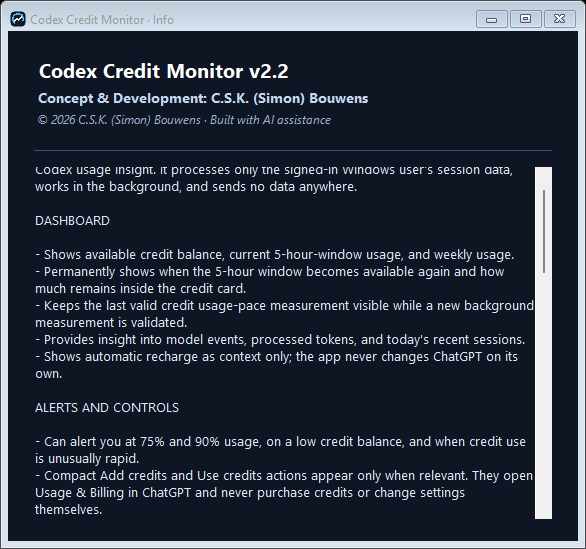
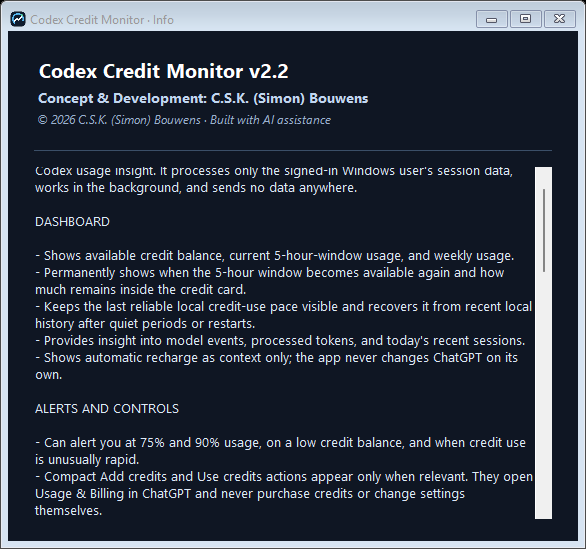
Finalize v2.2 release assets and packaging metadata

Changed region(s): [[0.0614, 0.2787, 0.9215, 0.9599], [0.4608, 0.7741, 0.4915, 0.8051]]

diff --git a/Doc/GitHub-README-v2.2.md b/Doc/GitHub-README-v2.2.md
@@ -43,7 +43,7 @@ Choose the package that matches how you use Windows:
 
 [Download CodexCreditMonitorSetup_2.2_x64.msi](https://github.com/sibosays/CodexCreditMonitor/releases/latest/download/CodexCreditMonitorSetup_2.2_x64.msi)
 
-Use the MSI for a conventional 64-bit Windows installation. It installs the self-contained desktop application in Program Files and adds a Codex Credit Monitor shortcut to the Start menu.
+Use the MSI for a conventional 64-bit Windows installation. Windows requests administrator approval, then installs the self-contained desktop application in Program Files and adds a Codex Credit Monitor shortcut to the Start menu.
 
 ### PortableApps package (ZIP)
 
@@ -72,8 +72,8 @@ The Info window dynamically reads the bundled Dutch and English product descript
 [Download SHA256SUMS.txt](https://github.com/sibosays/CodexCreditMonitor/releases/latest/download/SHA256SUMS.txt) and compare the SHA-256 value of your chosen package:
 
 ```text
-76CB93A9A283BA35770E24FE211B5214433C92E72EB60E112791D930B9990AB0  CodexCreditMonitorSetup_2.2_x64.msi
-0955DA69634EDDC3B38EB83E1B32190533EA0A15A0F8552F1AFD160A9DC1FF33  CodexCreditMonitorPortable_2.2.zip
+EFF06BC3BFFAA8EED86260A14873C7AD1A4AAE9530133B6E9F9575127F64FFC2  CodexCreditMonitorSetup_2.2_x64.msi
+908397C3D632C7E65486981C45F400C73C61B6320A65BA96ACAC6D4DD41F123D  CodexCreditMonitorPortable_2.2.zip
 ```
 
 ## What is new in v2.2?
@@ -83,6 +83,7 @@ The Info window dynamically reads the bundled Dutch and English product descript
 - Professional product-focused Info view instead of change history.
 - Gentle automatic Info scrolling with pause-on-hover behavior.
 - Self-contained MSI and PortableApps delivery without a separate .NET dependency.
+- Rebuilt and CRC-verified PortableApps launcher for reliable platform startup.
 
 ## Privacy and scope
 

diff --git a/Doc/2026-09-06_CHANGESET_003.md b/Doc/2026-09-06_CHANGESET_003.md
@@ -208,7 +208,11 @@ Wanneer alle draaiende ChatGPT- en Codex-processen worden afgesloten, verdwijnt 
 - Instellingen: Nederlands en Engels visueel gecontroleerd zonder afgesneden of overlappende teksten.
 - Info: twee frames met verschillende scrollposities bevestigen directe, vloeiende pixelbeweging; hover-pauze en hervatten blijven gekoppeld.
 - Proceslevenscyclus: de initiële launcher eindigt en de reagerende tray-instantie blijft actief nadat haar ouderproces verdwenen is.
-- GitHub: niet gewijzigd; de beoordelingspoort blijft actief.
+- GitHub-publicatie: door de gebruiker op 7 september 2026 expliciet vrijgegeven; definitieve live controle volgt na upload.
+- Definitieve self-contained app: productversie `2.2.0+0da4e2605105ccb8aa27a07408cfecb7af4d77b0`; tempoverificatie geslaagd en de actuele 5-uurslimiet werd in circa 0,09 seconde gelezen.
+- PortableApps: launcher opnieuw opgebouwd met de officiële lokale generator; CRC-controle en schone start vanuit een uitgepakte ZIP geslaagd.
+- MSI: pakketbouw en administratieve Windows Installer-extractie geslaagd; de verpakte app doorstaat de tempoverificatie. Een stille per-machine-installatie vraagt volgens ontwerp administratorrechten en kon binnen de niet-verhoogde testsessie niet worden voltooid.
[1 lines of base64/hex data omitted]
 
 ## Centrale QA-artefacten
 

diff --git a/src/WhatsNew.md b/src/WhatsNew.md
@@ -8,6 +8,7 @@
 - Herstelt Engelse tooltips, adaptieve meertalige instellingen, het vaste compacte dashboardformaat en vloeiend continu Info-scrollen.
 - Bewaart het laatst geldige verbruikstempo, herstelt dit bij een rustige periode of herstart uit maximaal acht dagen lokale historie, negeert ongeldige negatieve metingen en vernieuwt alleen met betrouwbare achtergronddata.
 - Ontkoppelt de tray-app van het startende ChatGPT/Codex-proces zodat de monitor zelfstandig actief blijft.
+- Herbouwt de PortableApps-launcher met geldige integriteitscontrole en een startwijze die past bij de zelfstandige tray-app.
 
 ## v2.1.1
 
@@ -56,6 +57,7 @@ Het dashboard open je vanuit het systeemvak. Instellingen, handmatig vernieuwen 
 - Restores English tooltips, adaptive bilingual Settings layout, the fixed compact dashboard size, and smooth continuous Info scrolling.
 - Preserves the last valid usage pace, recovers it after a quiet period or restart from up to eight days of local history, rejects invalid negative measurements, and replaces it only with reliable background data.
 - Detaches the tray application from its launching ChatGPT/Codex process so the monitor remains independently active.
+- Rebuilds the PortableApps launcher with a valid integrity check and startup behavior suited to the independent tray application.
 
 ## v2.1.1
 

diff --git a/Doc/GitHub-Release-v2.2.md b/Doc/GitHub-Release-v2.2.md
@@ -6,7 +6,7 @@ Codex Credit Monitor is a lightweight, privacy-focused Windows system-tray appli
 
 ## Choose your download
 
-- **Windows Installer:** `CodexCreditMonitorSetup_2.2_x64.msi` — installs the self-contained 64-bit application in Program Files and adds a Start menu shortcut.
+- **Windows Installer:** `CodexCreditMonitorSetup_2.2_x64.msi` — requests administrator approval, installs the self-contained 64-bit application in Program Files, and adds a Start menu shortcut.
 - **PortableApps package:** `CodexCreditMonitorPortable_2.2.zip` — a complete portable package tested successfully inside the PortableApps.com Platform. It keeps settings in its own Data folder and creates no permanent startup entry.
 
 Neither edition requires a separate .NET Desktop Runtime.
@@ -28,6 +28,7 @@ Neither edition requires a separate .NET Desktop Runtime.
 - Added a conventional MSI alongside the PortableApps-tested ZIP.
 - Kept both deliveries fully self-contained to prevent .NET runtime dependency errors.
 - Completed seven localization, adaptive-layout, scrolling, limit-status, usage-pace, and process-lifecycle corrections without changing the v2.2 version number.
+- Rebuilt the PortableApps launcher with the official generator and verified its CRC and clean startup path.
 
 ## Privacy
 
